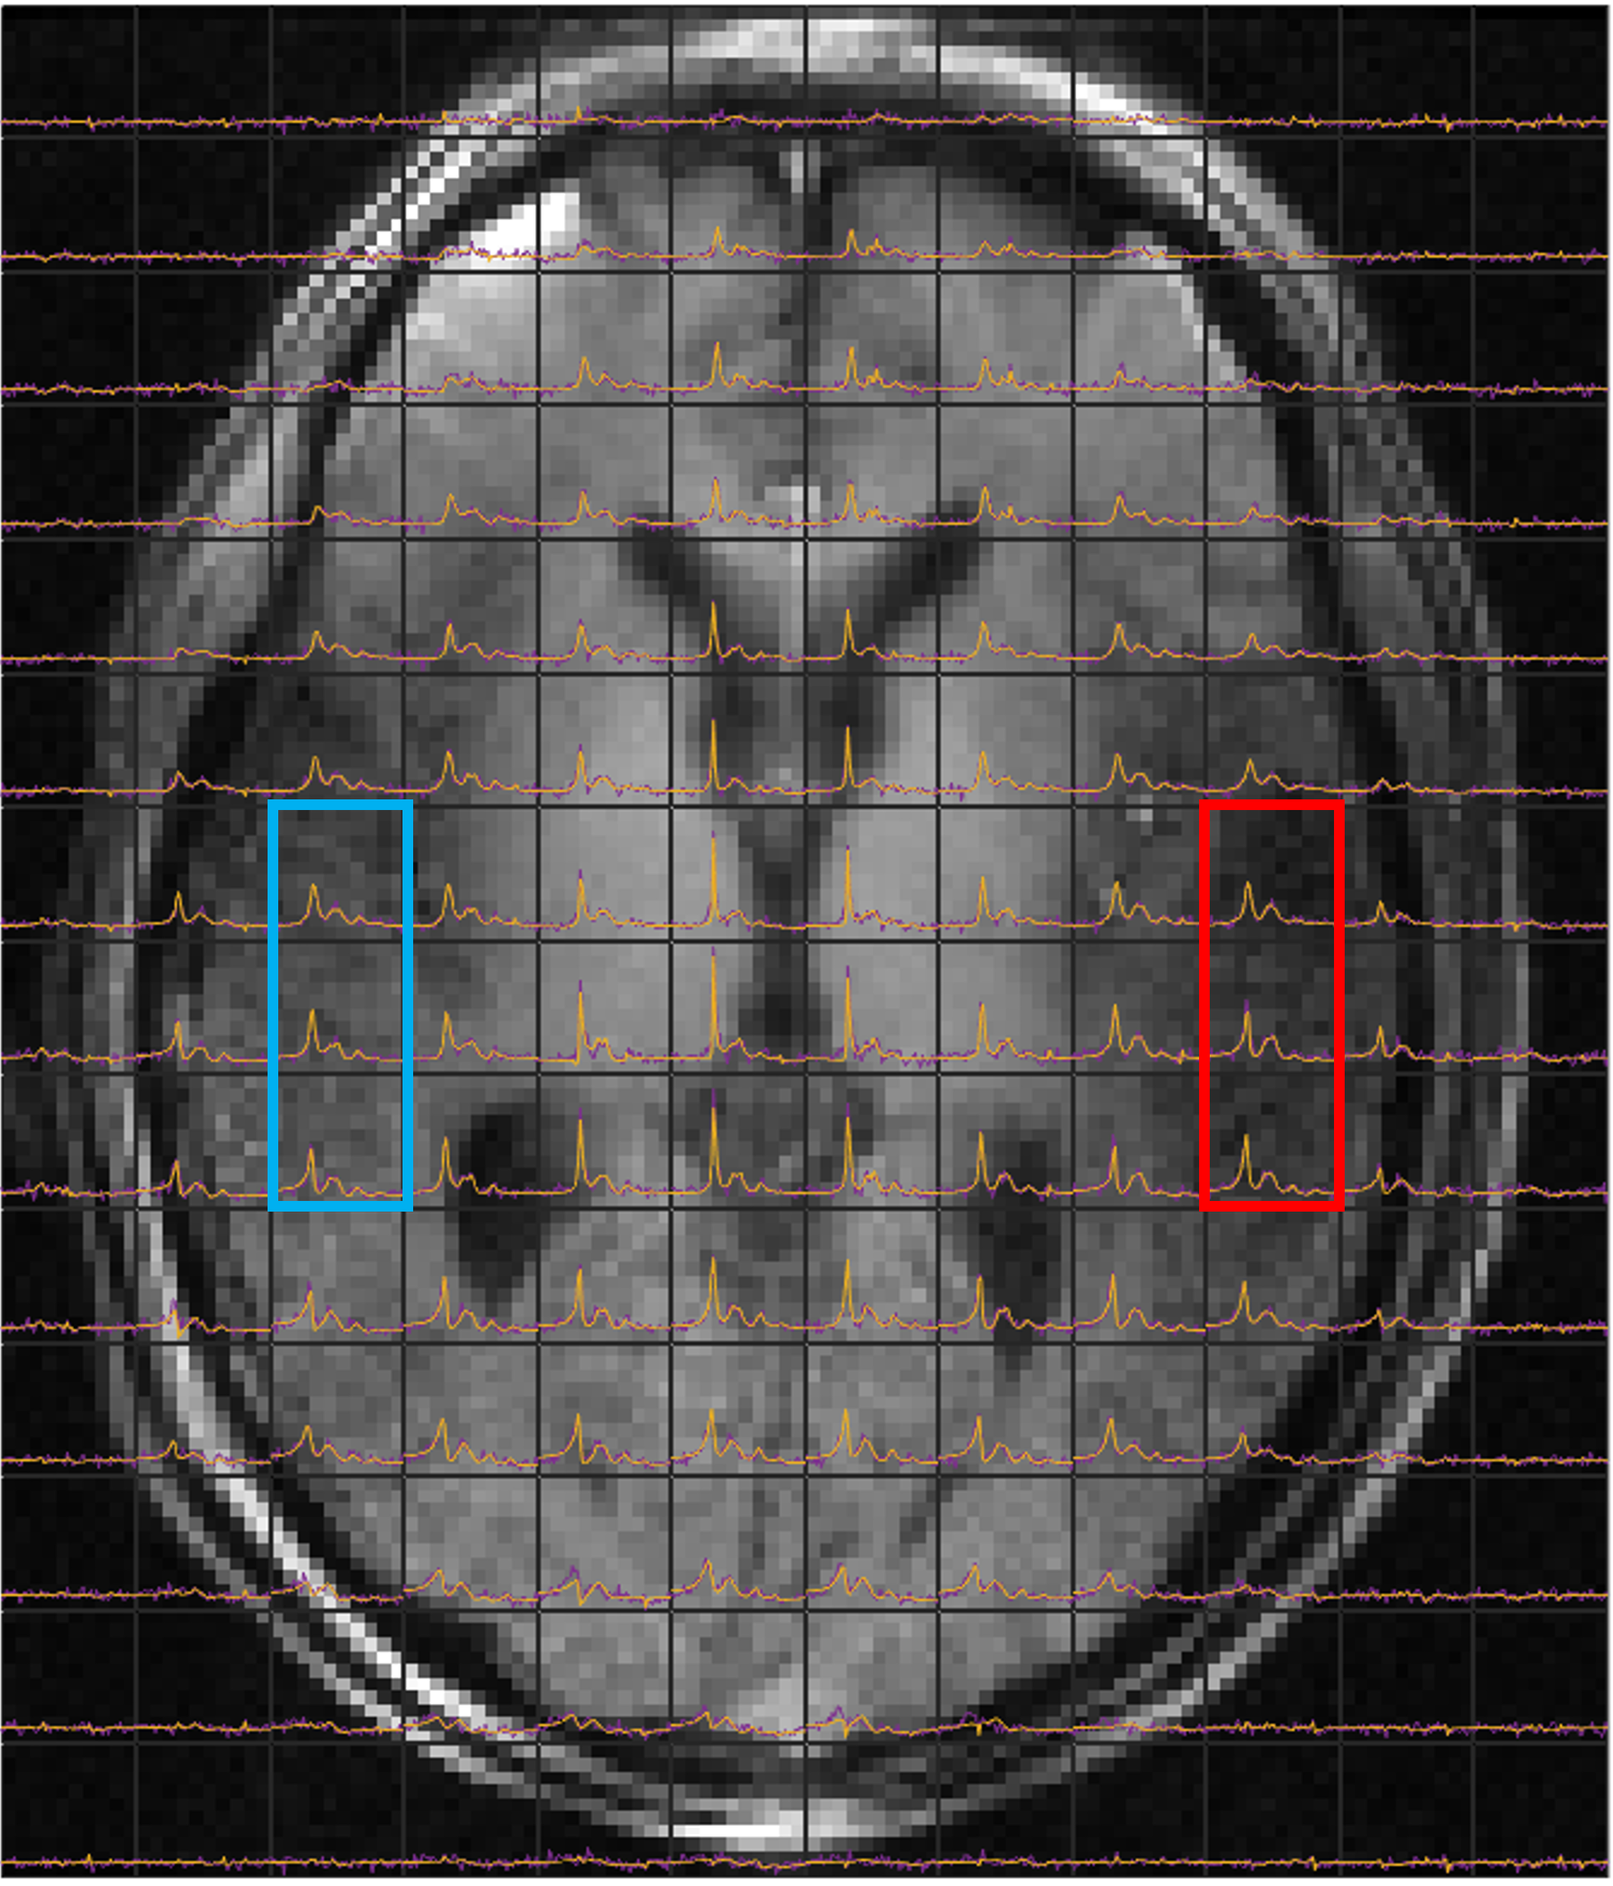
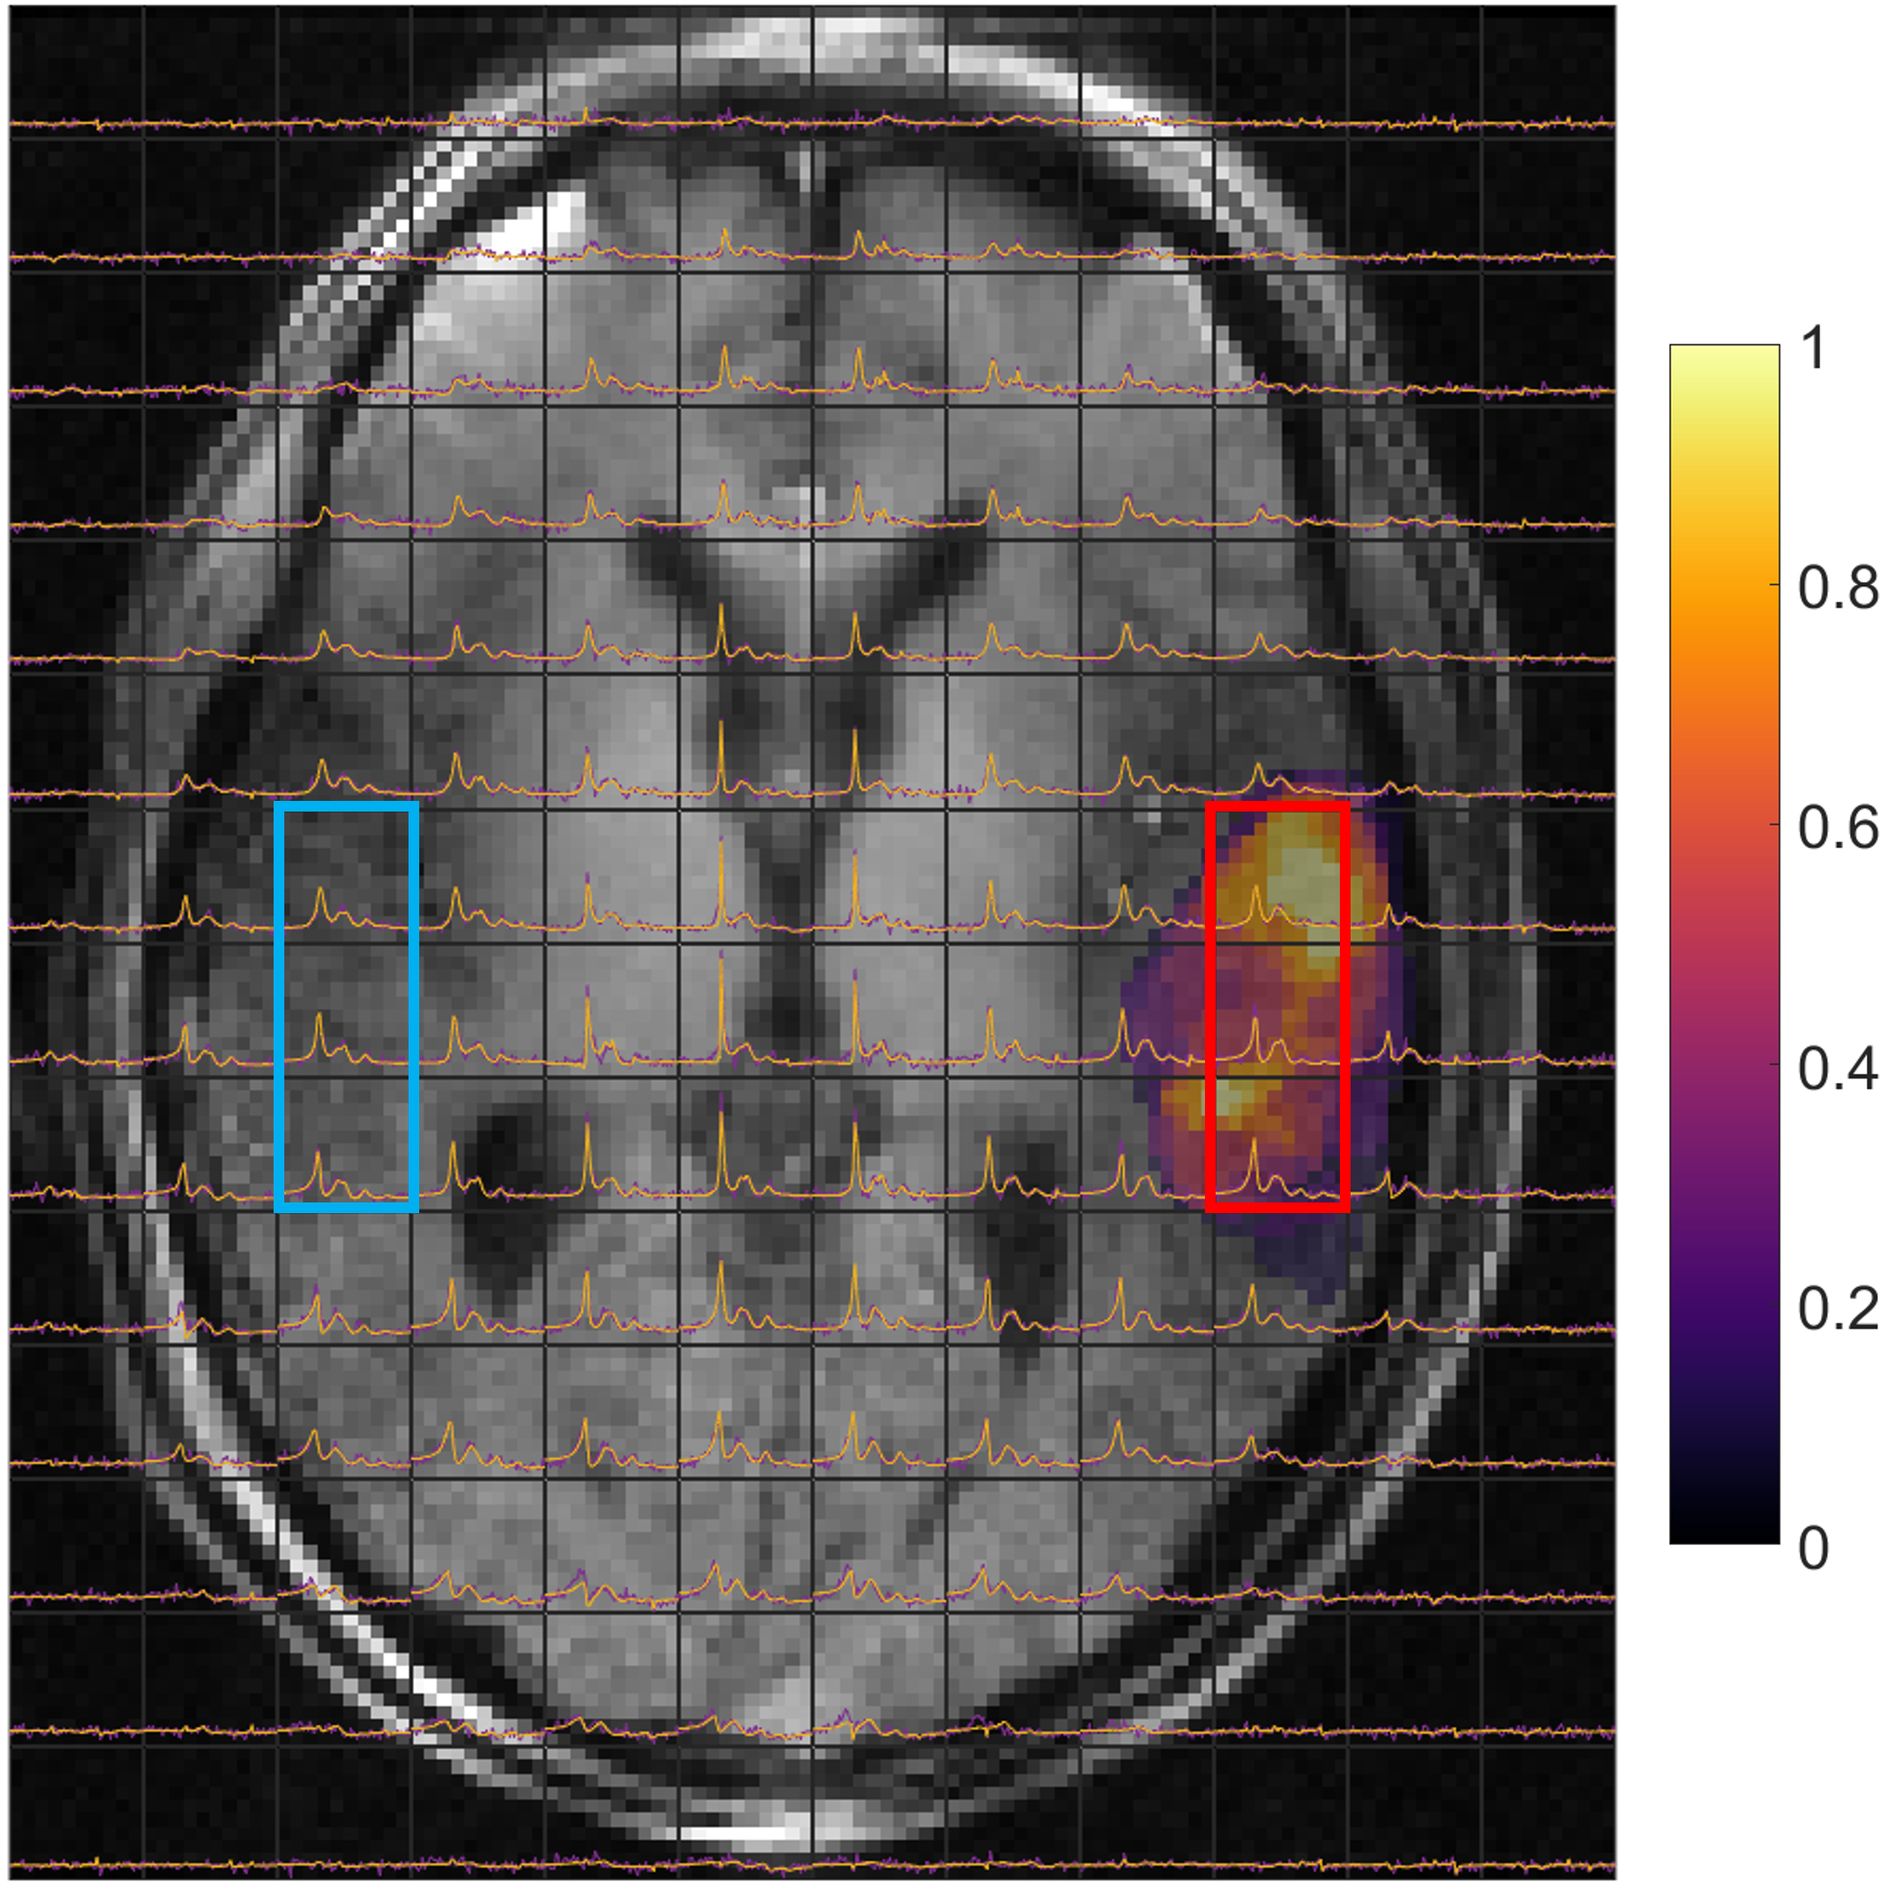
Correction changes 28082024

diff --git a/Chapters/Conclusion.tex b/Chapters/Conclusion.tex
@@ -6,11 +6,18 @@ In this thesis \ac{MRI} and \ac{MRSI} tuned to the $^2$H resonance at 3T and 7T 
 \begin{figure}
     \centering
     \includegraphics[width = 0.9\textwidth]{Figures/Conclusion/CSI.png}
-    \caption{\textit{Final $^2$H CSI data acquired in $\sim$12.5 minutes (purple) along with corresponding fits (yellow). In tumour voxels (red) and contralateral voxels (blue).}}
+    \caption{\textit{Final $^2$H CSI data acquired in $\sim$12.5 minutes (purple) along with corresponding fits (yellow). In tumour voxels (red) and contralateral voxels (blue). Along with an overlayed heatmap that represents the location of the tumour averaged over ten slices that cover the \ac{CSI} slice, each individual slice has a mask value of one.}}
     \label{fig:Conc:CSI}
 \end{figure}
 
-The aim of this work is to successfully lay the ground for future studies at the SPMIC to investigate brain tumours in patients using \ac{DMI} at 7T \textit{in vivo}. At the time of writing this conclusion the first DMI scan was performed in a patient with a brain tumour using ingestion of glucose-d$_7$ at 7T \textit{in vivo}, which was performed by our group at the SPMIC. In a preliminary analysis, the data has been fitted using the OXSA-AMARES toolbox \cite{Purvis2017OXSA:MATLAB} (Fig. \ref{fig:Conc:CSI}), metabolite fitting amplitudes have been obtained and tracked over time and can be seen in Fig. \ref{fig:Conc:stack}, Fig. \ref{fig:Conc:Time} and \ref{fig:Conc:Time_Rat}. Decreased Glx was found in tumour voxels compared to contralateral voxels along with increased lactate in the three last scans. This resulted in a statistical increase in Lac/Glx in tumour voxels which is visible in Fig. \ref{fig:Conc:Box}, 0.5 $\pm$ 0.2 compared to 0.2 $\pm$ 0.2 p$<$0.05, the time-course of this ratio is visible in Fig. \ref{fig:Conc:Time_Rat}. Average metabolite maps from the post-ingestion scans are visible in Fig. \ref{fig:Conc:Maps}.
+The aim of this work is to successfully lay the ground for future studies at the SPMIC to investigate brain tumours in patients using \ac{DMI} at 7T \textit{in vivo}. At the time of writing this conclusion the first DMI scan was performed in a patient with a brain tumour using ingestion of glucose-d$_7$ at 7T \textit{in vivo}, which was performed by our group at the SPMIC. In a preliminary analysis, the data has been fitted using the OXSA-AMARES toolbox \cite{Purvis2017OXSA:MATLAB} (Fig. \ref{fig:Conc:CSI}), metabolite fitting amplitudes have been obtained and tracked over time and can be seen in Fig. \ref{fig:Conc:stack}, Fig. \ref{fig:Conc:Time} and \ref{fig:Conc:Time_Rat}. The overlayed heatmap on Fig.\ref{fig:Conc:CSI} represents the location of the tumour, on each slice of the MPRAGE the tumour is manually segmented and the masks are averaged over all slices that cover the \ac{CSI} slice (ten slices). A value of one in the heatmap means that the voxel is present in the tumour in all ten slices, and a value of zero means that the voxel is not present in the tumour in any of the slices. It is important to note that the mask here is not drawn by a trained radiographer, instead it is drawn by the author and assessed by a clinical doctor (Dr. Milo Hollingworth).
+
+\begin{figure}[H]
+    \centering
+    \includegraphics[width = 0.9\textwidth]{Figures/Conclusion/Maps.png}
+    \caption{Average metabolite maps from the post-ingestion scans from the slice indicating the tumour.}
+    \label{fig:Conc:Maps}
+\end{figure}
 
 \begin{figure}[H]
     \centering
@@ -18,6 +25,8 @@ The aim of this work is to successfully lay the ground for future studies at the
     \caption{\textit{Stacked spectra along with corresponding from the contralateral voxels (left) and of the voxels that cover the tumour region (right). Each spectra is obtained by averaging the three spectra in each ROI, the fitting here is performed before the averaging.}}
     \label{fig:Conc:stack}
 \end{figure}
+
+Decreased Glx was found in tumour voxels compared to contralateral voxels along with increased lactate in the three last scans. This resulted in a statistical increase in Lac/Glx in tumour voxels which is visible in Fig. \ref{fig:Conc:Box}, 0.5 $\pm$ 0.2 compared to 0.2 $\pm$ 0.2 p$<$0.05, the time-course of this ratio is visible in Fig. \ref{fig:Conc:Time_Rat}. Average metabolite maps from the post-ingestion scans are visible in Fig. \ref{fig:Conc:Maps}. These are promising preliminary results as it has been recently shown that there is a correlation between PET imaging in Alzheimers patients and the increase in Glx using \ac{DMI} \cite{Bgh2024ComparisonDisease}.
 
 \begin{figure}[H]
     \centering
@@ -38,13 +47,6 @@ The aim of this work is to successfully lay the ground for future studies at the
     \includegraphics[width = 0.8\textwidth]{Figures/Conclusion/BarChart.png}
     \caption{Box plots for the average Lac/Glx ratios in the tumour and the contralateral voxels indicating an increase in the tumour region (p$<$0.05). For the final three post-ingestion scans where the Glx and Lac signals appear to have reached a steady state.}
     \label{fig:Conc:Box}
-\end{figure}
-
-\begin{figure}[H]
-    \centering
-    \includegraphics[width = 0.9\textwidth]{Figures/Conclusion/Maps.png}
-    \caption{Average metabolite maps from the post-ingestion scans from the slice indicating the tumour.}
-    \label{fig:Conc:Maps}
 \end{figure}
 
 \section{Chapter Overviews}
@@ -85,7 +87,7 @@ A common theme throughout the whole thesis is the use of some element of de-nois
 
 It is important to note that whilst this thesis shows how to obtain and analyse \textit{in vivo} $^2$H data, this work only sets the foundation. As has been pointed out \ac{PET}  is used for clinical studies but only provides limited metabolic information. $^2$H has the potential to provide more information. However, this first has to be shown in patient studies, as the usefulness of this technique can not truly be proven until direct comparisons are made with current clinical work. Whilst $^2$H glucose and Glx are important metabolites in the investigation of brain tumours, arguably the most important metabolite is lactate. Currently it is difficult to optimise a scan for imaging lactate as signal levels do not reach far above the noise level in scans of healthy participants. Brain tumours cause a significant increase in the lactate produced which can be detected using $^2$H \cite{Soares2009MagneticApplications}. Other metabolic diseases such as \ac{AD} and \ac{PD} also impair metabolism, which has been shown through \ac{PET} imaging\cite{Shokouhi2014ImagingTomography, Meles2017MetabolicDisease}, and therefore could potentially benefit from $^2$H scanning. It is important to optimise/reduce scan time as patients will struggle with extended periods in an MR scanner.
 
-One of the difficulties when trying to track $^2$H incorporation into lipids after D$_2$O ingestion is the overlap of signals. When only one peak in a spectrum is visible this means standard imaging approaches can be used to map the distribution of that specific signal. If the increased \ac{HDO} signal was able to be nulled only the lipid would be visible, therefore if the same sequence was used to acquire image data more rapid acquisitions could potentially be achieved, this would improve participant/patient comfort whilst scanning or averaging can then be used to increase \ac{SNR}. However, for this to be possible almost near perfect water suppression is needed which can be difficult to achieve. In the \ac{DQF} spectra the data suffers from low \ac{SNR} as well and only has one signal present, therefore this sequence could be made into an imaging sequence which could potentially result in smaller voxels which would hopefully reduce effects from partial voluming. Therefore in the future it would be beneficial to the field if more applications of $^2$H imaging as opposed to spectroscopy, could be developed when $^2$H spectra are sparse. It's important to note this wouldn't be possible for \ac{DMI} experiments due to the multiple metabolite peaks being present.
+One of the difficulties when trying to track $^2$H incorporation into lipids after D$_2$O ingestion is the overlap of signals. When only one peak in a spectrum is visible this means standard imaging approaches can be used to map the distribution of that specific signal. If the increased \ac{HDO} signal was able to be nulled only the lipid would be visible, therefore if the same sequence was used to acquire image data more rapid acquisitions could potentially be achieved, this would improve participant/patient comfort whilst scanning or averaging can then be used to increase \ac{SNR}. However, for this to be possible almost near perfect water suppression is needed which can be difficult to achieve. In the \ac{DQF} spectra the data suffers from low \ac{SNR} as well and only has one signal present, therefore this sequence could be made into an imaging sequence which could potentially result in smaller voxels which would hopefully reduce effects from partial voluming. Therefore in the future it would be beneficial to the field if more applications of $^2$H imaging as opposed to spectroscopy, could be developed when $^2$H spectra are sparse. This has been implemented already using steady-state free precession (SSFP) combined with an adapted version of Iterative Decomposition of water and fat with Echo Asymmetry and Least-squares estimation (IDEAL) \cite{Peters2021ImprovingInvestigation}. In doing this they have shown an increase in \ac{SNR} when compared to the conventional \ac{CSI} acquisition. It's important to note that this is more technically challenging in \ac{DMI} experiments due to the multiple metabolite peaks being present beyond the expected three-peaks in IDEAL analysis.
 
 \section{Closing Remarks}
 

diff --git a/Chapters/ChapterQuad.tex b/Chapters/ChapterQuad.tex
@@ -5,7 +5,6 @@
 
 $^2$H possesses an electric quadrupolar magnetic moment (Q$_{\text{deuteron}}=$ 0.286 fm$^2e$)  because its nuclear spin (I=1) is larger than 1/2 \cite{Stone2015NuclearData}. This not only shortens the the relaxation times of $^2$H relative to $^1$H, but also introduces line splitting which is somewhat similar to the effect of J-coupling or dipolar interactions. The magnitude of separation in the formed doublet is dependent on the effect of ordering on the time-averaged direction of the local electric field gradient, with respect to the magnetic field that is experienced by the $^2$H nucleus \cite{Seelig1977DeuteriumMembranes, Eliav2016MultipleMRS}. When performing \ac{MRSI}, each voxel will contain information from multiple different tissue/water compartments which can therefore complicate spectral appearance due to the superposition of ordered (anisotropic) and disordered (isotropic) signals. The low available MR signal due to the low $^2$H \ac{NA} (0.015\%) means that quite often studies looking into quadrupolar effects are performed at high field  \cite{Gursan2022ResidualMuscle} and \cite{Ooms2015DoubleTissue}/or \cite{Damion2022DoubleLoading} high $^2$H abundances using \ac{D$_2$O} loading. Double quantum filtering (DQF) can be used to simplify the spectral behaviour by eliminating the signals from isotropic compartments \cite{Sharf1995DetectionNMR-Spectroscopy, Perea20072HDisc}. However this generally reduces the available \ac{SNR}. 
 
-
 As originally outlined in Chapter \ref{Chap:Theory}, spherical tensors are important when describing the quadrupole moment in $^2$H. Since $^2$H has a spin $I=1$, no rank greater than two can be reached, therefore the only multi-quantum coherence level that can be achieved is the double quantum coherence represented by the $T_2^{\pm2}$ tensors, which only arise in an anisotropic medium. Use of \ac{DQF} suppresses the single quantum coherences ($T_1^{\pm1}$) leaving only signal from the $T_2^{\pm2}$ tensors in anisotropic regions. The use of \ac{DQF} to measure measure the anisotropy of tissues and fluids in the body such as intervertebral disc tissue  \cite{Ooms2015DoubleTissue}, brain water \cite{Assaf1997InSpectroscopy} and elastin \cite{Sun2010InvestigationNMR} can reveal vital information about tissue structure in health and disease e.g. degenerative disc disease \cite{Ooms2015DoubleTissue}. Sodium ($^{23}$Na) is an example of other spin $>$ 1/2 nuclei ($I=3/2$) where multiple-quantum filtered (MQF) scans have been implemented. MQF scans have been used to invesigate $^{23}$Na changes in the intracellular sodium environment, and such measurements have the potential to provide a marker of compromised ionic homeostasis in ischemia \cite{Tsang2012Triple-quantum-filteredT}.
 
 \subsection{Aims}
@@ -43,6 +42,8 @@ where the \ac{RQC}, which gives the magnitude of the splitting, in this case is 
 This derivation shows that as a result of the quadrupolar magnetic moment interacting with the \ac{EFG}, a splitting is observed that is caused by the perturbation of the energy levels. The frequency magnitude of this splitting effect is given by the \ac{RQC} and depends only on the orientation of the deuterated  molecules with respect to the applied magnetic field (Eq. \ref{eqn:Quad:Angle}). In an isotropic structure this splitting effect is not visible due to averaging resulting from molecular motion. In an anisotropic medium such as the skeletal muscle fibres in the calf, the quadrupolar splitting is at a maximum and equal to the \ac{RQC} value when the muscle fibres are oriented parallel to the magnetic field ($\theta = 0^\circ$). The splitting effect can also be nulled ($\nu_Q = 0$) if the muscle fibres are oriented at the magic angle $\theta = 54.74^\circ$ ($\cos^2\theta=1/3$) to the magnetic field.
 
 Therefore it is possible to measure the \ac{RQC} constant from these \ac{NMR} spectra which provides information on the anisotropy of the medium being investigated.
+
+It is also possible to look at the ordering of muscle fibres by measuring the frequency splitting due to dipolar coupling from $^1$H spectroscopy. This has been found to be related to the alignment of muscle fibres to the applied $B_0$ field \cite{Kreis1994Liquid-Crystal-likeSpectroscopy}. 
 
 % This detected signal from the \ac{DQF} signal is related to a second rank tensor arising from the \ac{EFG}, which can only be formed in anisotropic media/phases. This technique is applied by manipulating the pulse sequence with alternating $\pi/2$ and $\pi$ RF pulses. 
 
